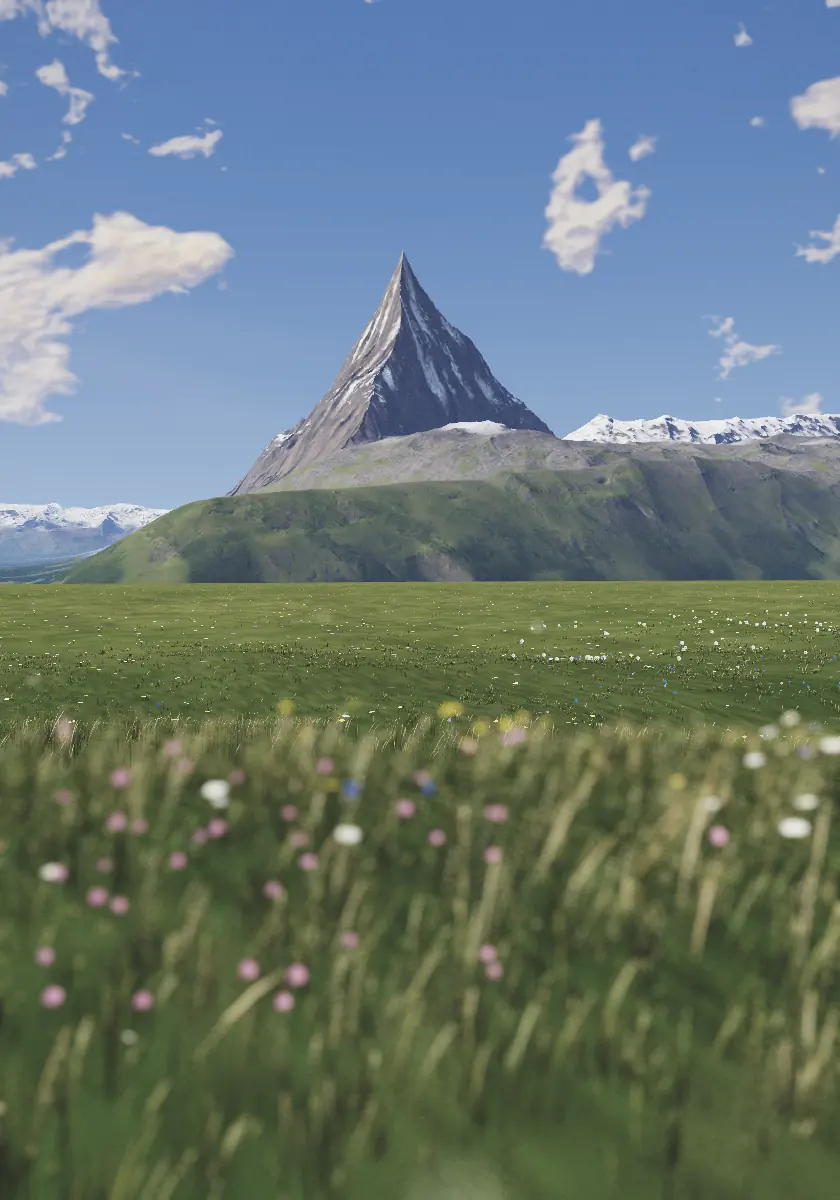
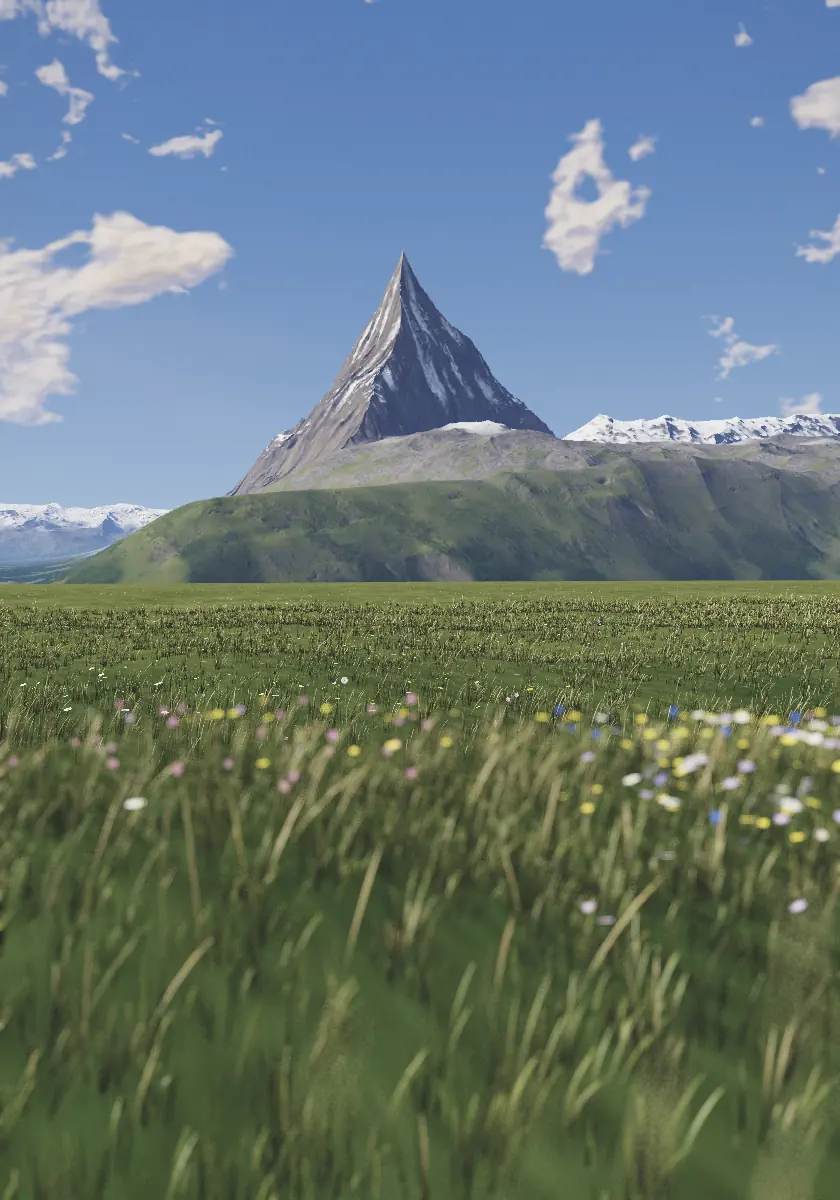
on a tall frame the meadow runs out to the slopes under the words, and its blades keep their shape under the blur

diff --git a/sky.js b/sky.js
@@ -1815,9 +1815,11 @@ function windAt(t) {
    the meadow running up to them, and the moon comes round to stay in
    the picture. A tall frame looks down across a lot of meadow, so there
    the eye sits up out of the grass: the lower half shows the flowers
-   rather than a wash of the nearest blades. */
+   rather than a wash of the nearest blades, and the grass is grown
+   farther out, since from up there the eye would see bare ground
+   between the last blades and the slopes. */
 var FOVY = 36 * DEG, PITCH = 6 * DEG, YAW0 = 0;
-var NEAR_Z = 1.0, MID_Z = 4.0;
+var NEAR_Z = 1.0, MID_Z = 4.0, ZMAX = 13;
 var BOXT = [0.5, 0.45, 0.24, 0.09];
 
 function smooth01(a, b, x) {
@@ -1833,6 +1835,7 @@ function layoutFor(aspect) {
     yaw: (19 * k2 - 2.5 * k1 * (1 - k2)) * DEG,
     boxt: [0.5, 0.46, 0.24 + 0.2 * k2, 0.07],
     eye: 2300.34 + 0.4 * k2,
+    zmax: 13 + 12 * k2,
     moon: dirAzEl(-20 + 28 * k2, 18 + 3 * k2),
     nightSun: dirAzEl(-75 + 30 * k2, 28)
   };
@@ -1846,6 +1849,7 @@ function useLayout(L) {
   YAW0 = L.yaw;
   BOXT = L.boxt;
   EYE[1] = L.eye;
+  ZMAX = L.zmax;
   MOON = L.moon;
   PAL.night.sun = L.nightSun;
   PAL.day.orb = PAL.day.sun;
@@ -1883,13 +1887,18 @@ function buildMeadow(w, h) {
   }
   /* keep the grass out of the words, and the nearest blades low in the
      frame but for the edges: a blade whose tip would stand too high is
-     cut down until it clears */
+     cut down until it clears. A far blade is small on the screen, so it
+     may stand nearer the words and is never cut below half its height:
+     from out there the eye sees a carpet of tops, not blades, and a
+     tall frame, whose raised eye looks over the near grass at that
+     ground, would otherwise see it bare under the words */
   function clip(x, z, h) {
-    for (var k = 0; k < 10; k++) {
+    var far = z >= MID_Z, room = far ? 0.02 : 0.05, cuts = far ? 4 : 10;
+    for (var k = 0; k < cuts; k++) {
       var v = view(x, h - (EYE[1] - 2300) + 0.03, z);
       if (v[2] <= 0) return h;
       var sx = v[0] / v[2] / cam[0] * 0.5 + 0.5, sy = 0.5 - v[1] / v[2] / cam[1] * 0.5;
-      var inX = Math.abs(sx - BOXT[0]) < BOXT[2] + 0.07, inY = sy < BOXT[1] + BOXT[3] + 0.05;
+      var inX = Math.abs(sx - BOXT[0]) < BOXT[2] + 0.07, inY = sy < BOXT[1] + BOXT[3] + room;
       var edge = Math.abs(sx - 0.5) > 0.38;
       var top = z < NEAR_Z ? (edge ? 0.36 : 0.6) : z < MID_Z ? (edge ? 0.3 : 0.5) : 0;
       if (!(inX && inY) && sy > top) return h;
@@ -1900,7 +1909,6 @@ function buildMeadow(w, h) {
   function place(z, u) {
     return [u * (z * TANG + 0.3), z];
   }
-  var ZMAX = 13;
   var area = ZMAX * ZMAX * TANG;
   var i, j, z, p, h;
   /* the grass grows in tussocks: a clump of blades fanning out from one
@@ -1909,7 +1917,9 @@ function buildMeadow(w, h) {
   var near = Math.round(4 * 4 * TANG * 26 * 3.2);
   for (i = 0; i < nc + near; i++) {
     z = i < nc ? 0.12 + (ZMAX - 0.12) * Math.sqrt(rnd()) : 0.12 + 3.88 * Math.sqrt(rnd());
-    var thin = z > 9 && rnd() < (z - 9) / 4;
+    /* the far grass thins with distance, where a blade is already less
+       than a pixel wide, and runs out over the last four metres */
+    var thin = z > ZMAX - 4 && rnd() < (z - ZMAX + 4) / 4 || z > 13 && rnd() < 1 - 13 / z;
     p = place(z, rnd() * 2 - 1);
     var nb = 4 + Math.floor(rnd() * 9);
     var tall = 0.55 + 0.9 * rnd() * rnd();
@@ -1940,7 +1950,9 @@ function buildMeadow(w, h) {
   }
   var drifts = [];
   for (i = 0; i < 64; i++) drifts.push([2.0 + 16 * Math.pow(rnd(), 1.1), rnd() * 2 - 1, pick()]);
-  var nf = Math.round(area * 13);
+  /* the drifts are as full whatever the frame: the flowers are counted
+     over the meadow a wide frame sees */
+  var nf = Math.round(13 * 13 * TANG * 13);
   for (i = 0; i < nf; i++) {
     var dr = drifts[Math.floor(rnd() * drifts.length)];
     z = Math.max(1.1, dr[0] * (0.7 + 0.6 * rnd()));
@@ -2802,15 +2814,23 @@ function frameTargets(cw, ch) {
   fh = ch;
   [skyT, farT, midT, nearT, midB, nearB].forEach(drop);
   var hw = Math.max(1, Math.round(cw * 0.5)), hh = Math.max(1, Math.round(ch * 0.5));
-  var qw = Math.max(1, Math.round(cw * 0.25)), qh = Math.max(1, Math.round(ch * 0.25));
+  /* the middle and nearest grass are drawn small, at half and a quarter
+     of the picture on a wide canvas, and softened; a narrow canvas draws
+     them larger, so their blades keep their shape under the blur */
+  var ms = Math.min(1, Math.max(0.5, 1000 / cw)), ns = Math.min(0.5, Math.max(0.25, 500 / cw));
+  var mw = Math.max(1, Math.round(cw * ms)), mh = Math.max(1, Math.round(ch * ms));
+  var nw = Math.max(1, Math.round(cw * ns)), nh = Math.max(1, Math.round(ch * ns));
   skyT = target(hw, hh, [CFMT, CFMT], false);
   farT = msTarget(cw, ch);
-  midT = target(hw, hh, [CFMT], true);
-  nearT = target(qw, qh, [CFMT], true);
-  midB = target(hw, hh, [CFMT], false);
-  nearB = target(qw, qh, [CFMT], false);
-  RN = 0.04 * qh;
-  RM = 0.0055 * hh;
+  midT = target(mw, mh, [CFMT], true);
+  nearT = target(nw, nh, [CFMT], true);
+  midB = target(mw, mh, [CFMT], false);
+  nearB = target(nw, nh, [CFMT], false);
+  /* the softness is sized to the lens, so the wide lens of a tall frame
+     blurs no more of a blade than the narrow one of a wide frame */
+  var ang = 36 * DEG / FOVY;
+  RN = 0.04 * ch * ang * ns;
+  RM = 0.0055 * ch * ang * ms;
 }
 
 /* the last frame of the old size, kept on a plain canvas under the new

diff --git a/style.css b/style.css
@@ -31,11 +31,11 @@
         rgba(0, 0, 0, 0.028) calc(100% - var(--fade) * 0.1),
         transparent);
[9 lines of base64/hex data omitted]
     --glimpse: var(--glimpse-day-wide);
     --poster: url(/stills/day-wide.webp);
     transition-property: --paper, --ink, --quiet, --underline, --accent, --wash, --sky;

diff --git a/tools/stills.py b/tools/stills.py
@@ -65,6 +65,8 @@ class Handler(SimpleHTTPRequestHandler):
     def do_GET(self):
         if self.path.split("?")[0] in ("/", "/index.html"):
             html = (REPO / "index.html").read_text()
+            # the page's security policy would refuse the stub; it is dropped here
+            html = re.sub(r'\s*<meta http-equiv="Content-Security-Policy"[^>]*>', "", html)
             tag = '<script src="/sky.js" defer></script>'
             body = html.replace(tag, STUB + "    " + tag).encode()
             self.send_response(200)
